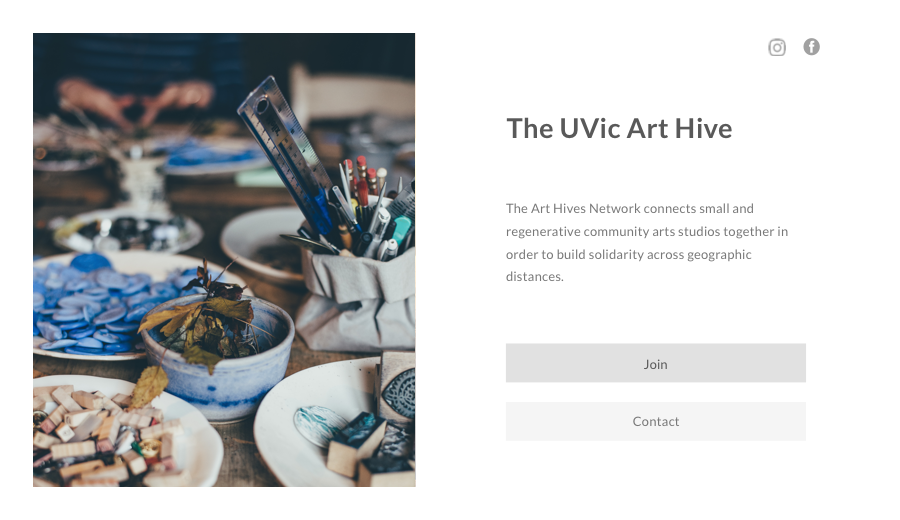
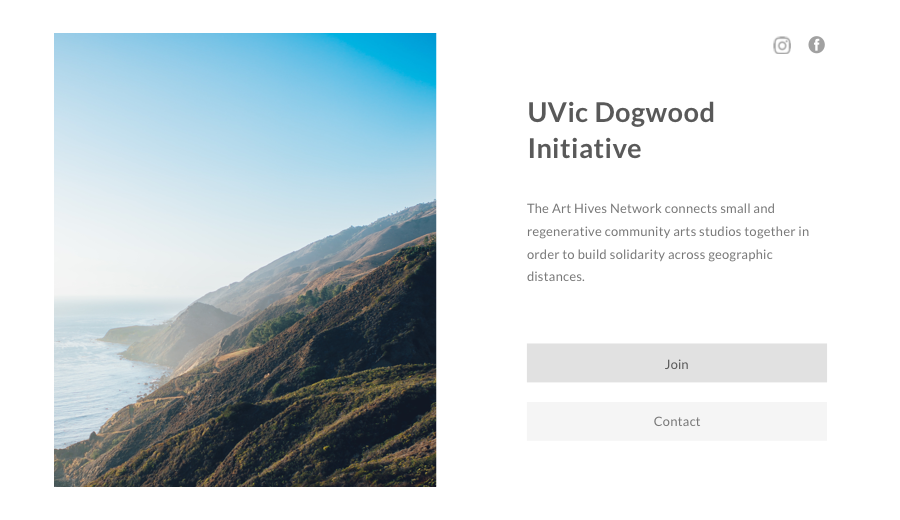
Tweak copy and add mockups

diff --git a/client/styles/pages/splash.less b/client/styles/pages/splash.less
@@ -2,7 +2,7 @@
   // Variables
   @splash-font-family: @brand-font-family;
   @splash-theme-color: #FFF;
-  @splash-theme-color-2: linear-gradient(135deg, rgba(232,253,255,1) 0%,rgba(219,255,237,1) 100%);
+  @splash-theme-color-2: linear-gradient(135deg, rgba(232,253,255,1) 0%,#d3f0ff 100%);
   @splash-font-color: #000;
 
   // Styles
@@ -135,6 +135,7 @@
     }
   }
   h3 {
+    margin-bottom: 10px;
     font-size: 28px;
     line-height: 40px;
     @media (max-width: 760px) {
@@ -144,6 +145,15 @@
       text-align: left;
     }
   }
+  h5 {
+    margin: 0;
+  }
+  p {
+    font-size: 16px;
+  }
+  ul {
+    margin: 0;
+  }
 
   // Header Navigation
   .nav-link {
@@ -152,7 +162,7 @@
     font-size: 16px;
     line-height: 30px;
     display: inline-block;
-    margin-top: 8px;
+    margin-top: 3px;
     &:hover {
       color: lighten(@splash-font-color, 20%);
     }
@@ -167,22 +177,24 @@
   }
   .ctas-button,
   .ctas-button-2 {
-    color: #FFF;
+    color: #222;
     display: inline-block;
     height: 40px;
     line-height: 38px;
     padding: 0 30px;
-    background: @core-color;
+    background: #fff;
     border-radius: 3px;
     font-size: @body-font-size;
     font-weight: 600;
+    box-shadow: 0 4px 6px rgba(50,50,93,.11),0 1px 3px rgba(0,0,0,.08);
     text-transform: uppercase;
     letter-spacing: .3px;
-    border: 1px solid @core-color;
+    border: 1px solid #eee;
     text-decoration: none;
     &:hover {
-      background: lighten(@core-color, 10%);
-      border-color: lighten(@core-color, 10%);
+      cursor: pointer;
+      background: lighten(#d4ffff, 10%);
+      border-color: lighten(#d4ffff, 10%);
     }
   }
 
@@ -195,7 +207,7 @@
 
   /* Feature Block */
   .feature5 {
-    padding: 90px 0;
+    padding: 60px 0 80px;
     overflow: hidden;
     border-bottom: 1px solid rgba(0,0,0,.1);
     position: relative;
@@ -235,7 +247,8 @@
     margin-bottom: 20px;
   }
   .steps .header-subheading {
-    font-size: 18px;
+    font-size: 16px;
+    line-height: 1.7;
     color: rgba(0,0,0,.44);
   }
 
@@ -260,6 +273,11 @@
     @media (max-width:760px) {
       border: none;
       height: 130px;
+    }
+    a {
+      color: #777;
+      font-size: 16px;
+      letter-spacing: 0.3px;
     }
   }
   .sp-tweets-meta-img img{
@@ -288,87 +306,96 @@
 
   // Images and Devices
   .header-images {
-    margin: 90px 0;
+    margin: 60px 0 90px;
+    position: relative;
+    left: 0;
+    top: 0;
   }
   .mask {
     height: 100%;
     width: 100%;
     overflow: hidden;
-    border-radius: 8px;
-    box-shadow: -1px 1px 4px rgba(107,124,147,.45);
     background: white;
   }
   .mask-img {
     width: 100%;
     display: block;
   }
-  .iphone,
-  .ipad {
-    border-radius: 40px;
-    background: linear-gradient(to bottom, rgba(247,251,254,1) 0%,rgba(221,226,232,1) 100%);
-    box-shadow: inset 0 4px 7px 1px #fff,inset 0 -5px 20px rgba(187,200,225,.35),0 2px 6px rgba(40,39,66,.14),0 10px 20px rgba(40,39,66,.06), 76px 75px 169px -35px rgba(0,0,0,0.4);
-    border-style: solid;
-    border-color: #e7ecf1;
+  .browser {
+    border-radius: 6px;
+    background: linear-gradient(to bottom, rgba(233,232,233,1) 0%,rgba(212,212,213,1) 100%);
+    background-size: 60px;
+    box-shadow: 0 10px 20px rgba(40,39,66,.06);
     overflow: hidden;
-  }
-  .iphone {
-    width: 280px;
+    width: 900px;
     height: 560px;
     z-index: 2;
-    padding: 60px 12px 70px;
-    -moz-transform: matrix3d(.8,-.09,0,.00032,.05,.86,0,.00006,0,0,1,0,-9,30,0,1);
-    -webkit-transform: matrix3d(.8,-.09,0,.00032,.05,.86,0,.00006,0,0,1,0,-9,30,0,1);
-    transform: matrix3d(.8,-.09,0,.00032,.05,.86,0,.00006,0,0,1,0,-9,30,0,1);
-    position: absolute;
-    bottom: 0;
-    border-width: 2px 2px 4px 6px;
-  }
-  .ipad {
-    width: 830px;
-    height: 560px;
-    padding: 15px 85px;
+    padding: 30px 0 0 0;
+    position: relative;
     margin-left: auto;
-    -moz-transform: matrix3d(0.8, 0.08, 0, -0.0002, -0.12, 0.88, 0, 0, 0, 0, 1, 0, -4, -30, 0, 1);
-    -webkit-transform: matrix3d(0.8, 0.08, 0, -0.0002, -0.12, 0.88, 0, 0, 0, 0, 1, 0, -4, -30, 0, 1);
-    transfrom: matrix3d(0.8, 0.08, 0, -0.0002, -0.12, 0.88, 0, 0, 0, 0, 1, 0, -4, -30, 0, 1);
-    background: linear-gradient(135deg, rgb(226, 230, 234) 0%,rgba(223,228,234,1) 100%);
-    border-width: 3px 4px 2px 0;
+  }
+  .browser:before {
+    content: "\25CF \25CF \25CF";
+    letter-spacing: 1px;
+    border-radius: 10px;
+    color: rgba(0,0,0,.05);
+    background: -webkit-linear-gradient(left, rgba(255,99,91,1) 0%,rgba(255,99,91,1) 35%,rgba(255,99,91,1) 35%,rgba(255,195,48,1) 35%,rgba(255,195,48,1) 66%,rgba(41,207,66,1) 66%,rgba(41,207,66,1) 100%);
+    -webkit-background-clip: text;
+    -webkit-text-fill-color: transparent;
+    font-size: 15px;
+    line-height: 30px;
+    height: 30px;
+    padding-left: 8px;
+    position: absolute;
+    top: 0;
   }
 
-  .ipad:after,
-  .iphone:after,
-  .ipad:before {
+  .iphone {
+    background: linear-gradient(to bottom, rgba(247,251,254,1) 0%,rgba(221,226,232,1) 100%);
+    box-shadow: inset 0 4px 7px 1px #fff,inset 0 -5px 20px rgba(187,200,225,.35),0 2px 6px rgba(40,39,66,.14),0 10px 20px rgba(40,39,66,.06), 0px 36px 79px -1px rgba(0,0,0,0.15);
+    overflow: hidden;
+    border-radius: 30px;
+    width: 220px;
+    height: 440px;
+    padding: 50px 8px 60px;
+    z-index: 3;
+    position: absolute;
+    top: 0;
+    transform: translate3d(0,130px,0);
+  }
+  .iphone .mask {
+    border-radius: 4px;
+  }
+
+  .iphone:after {
     content: "";
     width: 44px;
     height: 44px;
     border-radius: 50%;
     background: rgba(0,0,0,.05);
     position: absolute;
-    top: calc(50% - 22px);
+    top: calc(50% - 15px);
     right: 23px;
-  }
-  .ipad:after {
-    left: 34px;
-    width: 16px;
-    height: 16px;
-    top: calc(50% - 8px);
   }
   .iphone:after {
     top: initial;
-    bottom: 14px;
-    left: calc(50% - 7px);;
+    width: 38px;
+    height: 38px;
+    left: calc(50% - 8px);
+    bottom: 12px;
   }
   .iphone:before {
     content: "";
-    width: 58px;
-    height: 10px;
+    width: 50px;
+    height: 7px;
     border-radius: 10px;
     background: rgba(0,0,0,.08);
     position: absolute;
-    top: 28px;
-    left: calc(50% - 13px);
+    top: 24px;
+    left: calc(50% - 12px);
   }
   .computer {
+    width: 800px;
     width: 800px;
     height: 560px;
     background: linear-gradient(to bottom, rgba(247,251,254,1) 0%,rgba(221,226,232,1) 100%);
@@ -394,16 +421,25 @@
     border-radius: 0 0 40px 40px;
     background: #dde2e9;
     box-shadow: inset 0px -25px 10px -20px rgba(0,0,0,.5);
-    }
-    .socialprooftemplate {
-      padding: 90px 0
-    }
-    .socialprooftemplate h3 {
-      color: #000;
-    }
-    .centerdevices {
-      position: relative;
-    }
+  }
+  .socialprooftemplate {
+    padding: 90px 0;
+  }
+  .socialprooftemplate h3 {
+    color: #000;
+  }
+  .centerdevices {
+    position: relative;
+  }
+  .socialprooftemplate {
+    padding: 90px 0
+  }
+  .socialprooftemplate h3 {
+    color: #000;
+  }
+  .centerdevices {
+    position: relative;
+  }
 
   // Footer
   .footer {

diff --git a/client/components/pages/Splash.jsx b/client/components/pages/Splash.jsx
@@ -6,7 +6,8 @@ import Config from 'Config'
 import SignUp from 'parts/SignUp'
 import Brand from 'parts/Brand'
 
-const browserview = require('../../img/browser-view.png')
+const browserview = require('../../img/browser-view-2.png')
+const computerview = require('../../img/browser-view-3.png')
 const mobileview = require('../../img/mobile-view.png')
 const seo = require('../../img/seo-optimize.svg')
 const transfer = require('../../img/transfer.svg')
@@ -49,32 +50,25 @@ export default class Splash extends PureComponent {
                   </div>
                 </div>
                 <div className="col-8">
-                  <h1 className="header-heading">Take ten minutes to tell us about your universty club.</h1>
-                  <h2 className="header-subheading">We'll generate your club a beautiful website for you that's ready to share.</h2>
+                  <h1 className="header-heading">Take ten minutes to tell us about your universty club, and we'll give you a website.</h1>
                   <div className="ctas">
-                    <div className="onecta"><a className="ctas-button" href="#" onClick={this.showSignUp}>Create my club website</a></div>
+                    <div className="onecta"><a className="ctas-button" href="#" onClick={this.showSignUp}>Get started</a></div>
                   </div>
                 </div>
               </div>
               <div className="container-lrg">
                 <div className="col-12">
                   <div className="header-images">
-                    <div className="header-images">
-                      <div className="centerdevices">
-                        <div className="iphoneipad2">
                           <div className="iphone">
                             <div className="mask">
                               <img className="mask-img" src={mobileview}/>
                             </div>
                           </div>
-                          <div className="ipad">
+                          <div className="browser">
                             <div className="mask">
                               <img className="mask-img" src={browserview}/>
                             </div>
                           </div>
-                        </div>
-                      </div>
-                    </div>
                   </div>
                 </div>
               </div>
@@ -83,7 +77,7 @@ export default class Splash extends PureComponent {
             <ul>
               <div className="feature5 template">
                 <div className="container-sml text-center">
-                  <h3>It's very simple. Here's all you have to do:</h3>
+                  <h3>Your website is live and ready to share the moment you start creating.</h3>
                 </div>
                 <div className="container-lrg flex">
                   <div className="col-6 centervertical">
@@ -111,7 +105,7 @@ export default class Splash extends PureComponent {
                         <div className="sidedevices">
                           <div className="computerwrapper">
                             <div className="computer">
-                              <div className="mask"><img className="mask-img" src={browserview}/></div>
+                              <div className="mask"><img className="mask-img" src={computerview}/></div>
                             </div>
                           </div>
                         </div>
@@ -136,9 +130,9 @@ export default class Splash extends PureComponent {
                       <div className="sp-tweets">
                         <div className="flex flexvert">
                           <div>
-                            <b>The UVic Art Hive</b>
+                            <h5>The UVic Art Hive</h5>
                             <br/>
-                            <a target="_blank" href="http://webdev.uvic.club">hybrid.uvic.club</a>
+                            <a target="_blank" href="http://webdev.uvic.club">arthive.uvic.club</a>
                           </div>
                         </div>
                         <div className="sp-tweets-content">
@@ -150,9 +144,9 @@ export default class Splash extends PureComponent {
                       <div className="sp-tweets">
                         <div className="flex flexvert">
                           <div>
-                            <b>UVic Web Dev Club</b>
+                            <h5>UVic Dogwood Initiative</h5>
                             <br/>
-                            <a target="_blank" href="http://webdev.uvic.club">webdev.uvic.club</a>
+                            <a target="_blank" href="http://dogwood.uvic.club">dogwood.uvic.club</a>
                           </div>
                         </div>
                         <div className="sp-tweets-content">
@@ -164,9 +158,9 @@ export default class Splash extends PureComponent {
                       <div className="sp-tweets">
                         <div className="flex flexvert">
                           <div>
-                            <b>UVic Formula Hybrid</b>
+                            <h5>UVic Formula Hybrid</h5>
                             <br/>
-                            <a target="_blank" href="http://webdev.uvic.club">hybrid.uvic.club</a>
+                            <a target="_blank" href="http://formulahybrid.uvic.club">formulahybrid.uvic.club</a>
                           </div>
                         </div>
                         <div className="sp-tweets-content">
@@ -185,7 +179,7 @@ export default class Splash extends PureComponent {
                       <div className="col-12">
                           <h3>Stop sweating the details and spend more time enjoying your club.</h3>
                           <div className="ctas">
-                                <a className="ctas-button" onClick={this.showSignUp}>Create my club website</a>
+                                <a className="ctas-button" onClick={this.showSignUp}>Get started</a>
                           </div>
                       </div>
                   </div>
